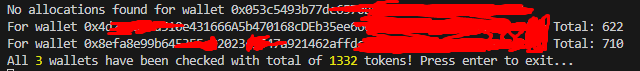
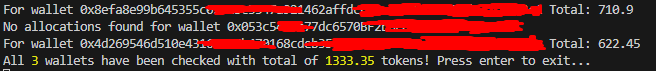
aaaaaaaa

diff --git a/main.js b/main.js
@@ -7,7 +7,7 @@ fs.readFile(filePath, 'utf8', (err, data) => {
     console.error('Error reading file:', err);
     return;
   }
-  
+
   if (!data.trim()) {
     console.log("Enter your wallet addresses into wallet.txt");
     return;
@@ -26,7 +26,7 @@ fs.readFile(filePath, 'utf8', (err, data) => {
       })
       .then(data => {
         if (data.allocations.length > 0){
-        ammount = Math.floor(data.allocations[0].amount/1000000000)
+        ammount = Math.floor(data.allocations[0].amount / 10000000) / 100;
         console.log(`For wallet ${wallet} Total: ${ammount}`);
         total += ammount;
     }else {
@@ -50,6 +50,6 @@ fs.readFile(filePath, 'utf8', (err, data) => {
   wallets.forEach((wallet, index) => {
     setTimeout(() => {
       checkWallet(wallet.trim());
-    }, index * 3000);
+    }, index * 1000);
   });
 });
